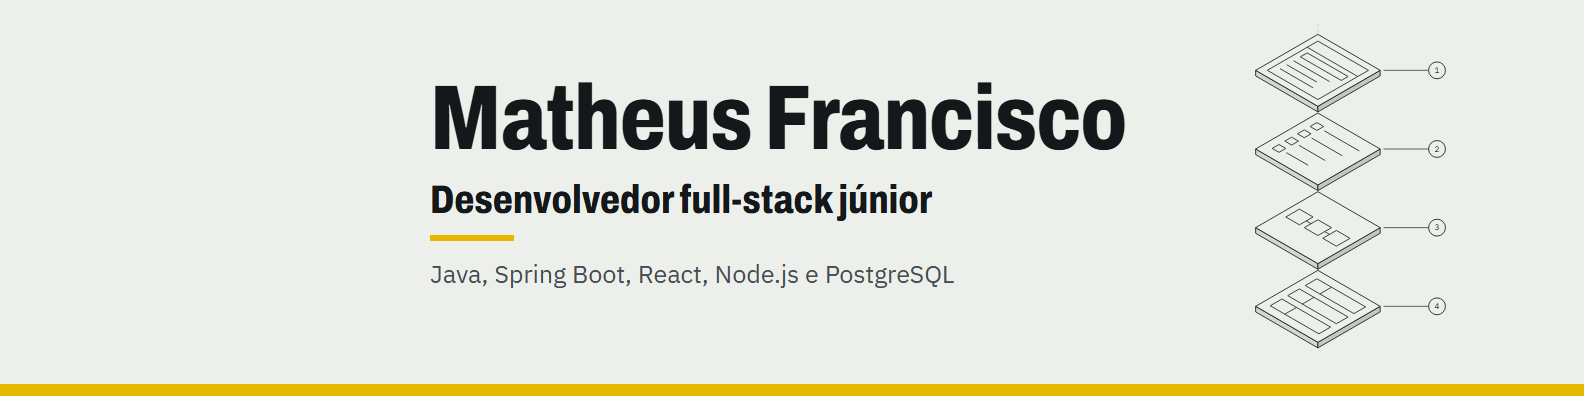
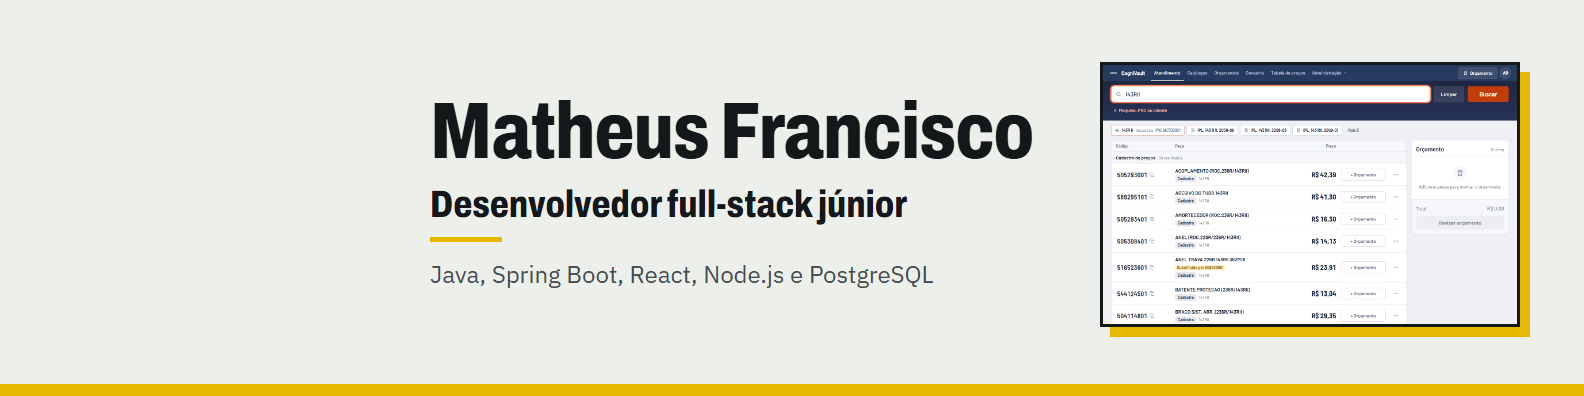
Capa do LinkedIn com a tela do produto no lugar do desenho

diff --git a/meu-portfolio/og/capa-linkedin.html b/meu-portfolio/og/capa-linkedin.html
@@ -1,27 +1,20 @@
-<!doctype html><html lang='pt-BR'><head><meta charset='utf-8'><style>
+<!doctype html>
+<html lang="pt-BR"><head><meta charset="utf-8">
+<style>
 @font-face{font-family:'Archivo';src:url('../node_modules/@fontsource-variable/archivo/files/archivo-latin-wdth-normal.woff2') format('woff2');font-weight:100 900;font-stretch:62% 125%}
 @font-face{font-family:'Plex';src:url('../node_modules/@fontsource-variable/ibm-plex-sans/files/ibm-plex-sans-latin-wght-normal.woff2') format('woff2');font-weight:100 700}
-@font-face{font-family:'PlexMono';src:url('../node_modules/@fontsource/ibm-plex-mono/files/ibm-plex-mono-latin-400-normal.woff2') format('woff2')}
 *{box-sizing:border-box;margin:0}
-:root{--paper:#edefea;--ink:#14181b;--line:#bcc2b9;--shade-l:#d3d8cf;--shade-r:#c2c8bd;--signal:#e6b800}
-body{width:1584px;height:396px;background:var(--paper);color:var(--ink);font-family:'Plex',sans-serif;position:relative;overflow:hidden}
-.bar{position:absolute;left:0;right:0;bottom:0;height:12px;background:var(--signal)}
-.t{position:absolute;left:430px;top:72px}
-h1{font-family:'Archivo',sans-serif;font-stretch:78%;font-weight:800;font-size:92px;line-height:1;letter-spacing:-1px}
-.role{margin-top:14px;font-family:'Archivo',sans-serif;font-stretch:78%;font-weight:800;font-size:40px}
-.role::after{content:'';display:block;width:84px;height:6px;margin-top:14px;background:var(--signal)}
-.stack{margin-top:16px;font-size:25px;color:#454d53}
-.fig{position:absolute;right:120px;top:22px;width:236px}
-.fig svg{width:100%;height:auto;overflow:visible}
-.exploded__axis{stroke:var(--line);stroke-width:1.2;stroke-dasharray:5 5}
-.exploded__top{fill:var(--paper);stroke:var(--ink);stroke-width:1.5;stroke-linejoin:round}
-.exploded__side{stroke:var(--ink);stroke-width:1.5;stroke-linejoin:round}
-.exploded__side--l{fill:var(--shade-l)}.exploded__side--r{fill:var(--shade-r)}
-.exploded__detail{fill:none;stroke:var(--ink);stroke-width:1.5;vector-effect:non-scaling-stroke;opacity:.85}
-.exploded__callout line{stroke:var(--ink);stroke-width:1.2}
-.exploded__callout circle{fill:var(--paper);stroke:var(--ink);stroke-width:1.5}
-.exploded__callout text{fill:var(--ink);font-family:'PlexMono',monospace;font-size:15px}
+body{width:1584px;height:396px;background:#edefea;color:#14181b;font-family:'Plex',sans-serif;position:relative;overflow:hidden}
+.bar{position:absolute;left:0;right:0;bottom:0;height:12px;background:#e6b800}
+.t{position:absolute;left:430px;top:92px;width:620px}
+h1{font-family:'Archivo',sans-serif;font-stretch:78%;font-weight:800;font-size:80px;line-height:1;letter-spacing:-1px;white-space:nowrap}
+.role{margin-top:12px;font-family:'Archivo',sans-serif;font-stretch:78%;font-weight:800;font-size:38px}
+.role::after{content:'';display:block;width:72px;height:5px;margin-top:12px;background:#e6b800}
+.stack{margin-top:16px;font-size:24px;color:#454d53}
+.shot{position:absolute;right:64px;top:62px;width:420px;border:3px solid #14181b;background:#fff;box-shadow:10px 10px 0 #e6b800}
+.shot img{display:block;width:100%}
 </style></head><body>
-<div class='t'><h1>Matheus Francisco</h1><p class='role'>Desenvolvedor full-stack júnior</p><p class='stack'>Java, Spring Boot, React, Node.js e PostgreSQL</p></div>
-<div class='fig'><svg class="exploded" viewBox="0 0 420 586" role="img" aria-label="Vista explodida do CogniVault: interface, API, fila e banco de dados, em quatro camadas numeradas." preserveAspectRatio="xMidYMid meet"><line class="exploded__axis" x1="160" y1="4" x2="160" y2="582"></line><g class="exploded__layer" style="--i:0"><g class="exploded__slab"><polygon class="exploded__side exploded__side--l" points="49.2,86.0 160.0,150.0 160.0,160.0 49.2,96.0"></polygon><polygon class="exploded__side exploded__side--r" points="270.8,86.0 160.0,150.0 160.0,160.0 270.8,96.0"></polygon><polygon class="exploded__top" points="160.0,22.0 270.8,86.0 160.0,150.0 49.2,86.0"></polygon><g class="exploded__detail" transform="matrix(0.866 0.5 -0.866 0.5 160 22)"><rect x="12" y="12" width="104" height="104"></rect><line x1="12" y1="34" x2="116" y2="34"></line><rect x="22" y="44" width="84" height="14"></rect><line x1="22" y1="72" x2="96" y2="72"></line><line x1="22" y1="86" x2="84" y2="86"></line><line x1="22" y1="100" x2="90" y2="100"></line></g></g><g class="exploded__callout"><line x1="276.848" y1="86" x2="357" y2="86"></line><circle cx="372" cy="86" r="15"></circle><text x="372" y="91" text-anchor="middle">1</text></g></g><g class="exploded__layer" style="--i:1"><g class="exploded__slab"><polygon class="exploded__side exploded__side--l" points="49.2,226.0 160.0,290.0 160.0,300.0 49.2,236.0"></polygon><polygon class="exploded__side exploded__side--r" points="270.8,226.0 160.0,290.0 160.0,300.0 270.8,236.0"></polygon><polygon class="exploded__top" points="160.0,162.0 270.8,226.0 160.0,290.0 49.2,226.0"></polygon><g class="exploded__detail" transform="matrix(0.866 0.5 -0.866 0.5 160 162)"><g><rect x="16" y="18" width="14" height="14"></rect><line x1="38" y1="25" x2="110" y2="25"></line></g><g><rect x="16" y="44" width="14" height="14"></rect><line x1="38" y1="51" x2="101" y2="51"></line></g><g><rect x="16" y="70" width="14" height="14"></rect><line x1="38" y1="77" x2="92" y2="77"></line></g><g><rect x="16" y="96" width="14" height="14"></rect><line x1="38" y1="103" x2="83" y2="103"></line></g></g></g><g class="exploded__callout"><line x1="276.848" y1="226" x2="357" y2="226"></line><circle cx="372" cy="226" r="15"></circle><text x="372" y="231" text-anchor="middle">2</text></g></g><g class="exploded__layer" style="--i:2"><g class="exploded__slab"><polygon class="exploded__side exploded__side--l" points="49.2,366.0 160.0,430.0 160.0,440.0 49.2,376.0"></polygon><polygon class="exploded__side exploded__side--r" points="270.8,366.0 160.0,430.0 160.0,440.0 270.8,376.0"></polygon><polygon class="exploded__top" points="160.0,302.0 270.8,366.0 160.0,430.0 49.2,366.0"></polygon><g class="exploded__detail" transform="matrix(0.866 0.5 -0.866 0.5 160 302)"><rect x="12" y="50" width="28" height="28"></rect><rect x="50" y="50" width="28" height="28"></rect><rect x="88" y="50" width="28" height="28"></rect><line x1="40" y1="64" x2="50" y2="64"></line><line x1="78" y1="64" x2="88" y2="64"></line></g></g><g class="exploded__callout"><line x1="276.848" y1="366" x2="357" y2="366"></line><circle cx="372" cy="366" r="15"></circle><text x="372" y="371" text-anchor="middle">3</text></g></g><g class="exploded__layer" style="--i:3"><g class="exploded__slab"><polygon class="exploded__side exploded__side--l" points="49.2,506.0 160.0,570.0 160.0,580.0 49.2,516.0"></polygon><polygon class="exploded__side exploded__side--r" points="270.8,506.0 160.0,570.0 160.0,580.0 270.8,516.0"></polygon><polygon class="exploded__top" points="160.0,442.0 270.8,506.0 160.0,570.0 49.2,506.0"></polygon><g class="exploded__detail" transform="matrix(0.866 0.5 -0.866 0.5 160 442)"><g><rect x="14" y="16" width="100" height="24"></rect><line x1="44" y1="16" x2="44" y2="40"></line></g><g><rect x="14" y="52" width="100" height="24"></rect><line x1="44" y1="52" x2="44" y2="76"></line></g><g><rect x="14" y="88" width="100" height="24"></rect><line x1="44" y1="88" x2="44" y2="112"></line></g></g></g><g class="exploded__callout"><line x1="276.848" y1="506" x2="357" y2="506"></line><circle cx="372" cy="506" r="15"></circle><text x="372" y="511" text-anchor="middle">4</text></g></g></svg></div>
-<div class='bar'></div></body></html>
+<div class="t"><h1>Matheus Francisco</h1><p class="role">Desenvolvedor full-stack júnior</p><p class="stack">Java, Spring Boot, React, Node.js e PostgreSQL</p></div>
+<div class="shot"><img src="../public/assets/cognivault-busca.png"></div>
+<div class="bar"></div>
+</body></html>
